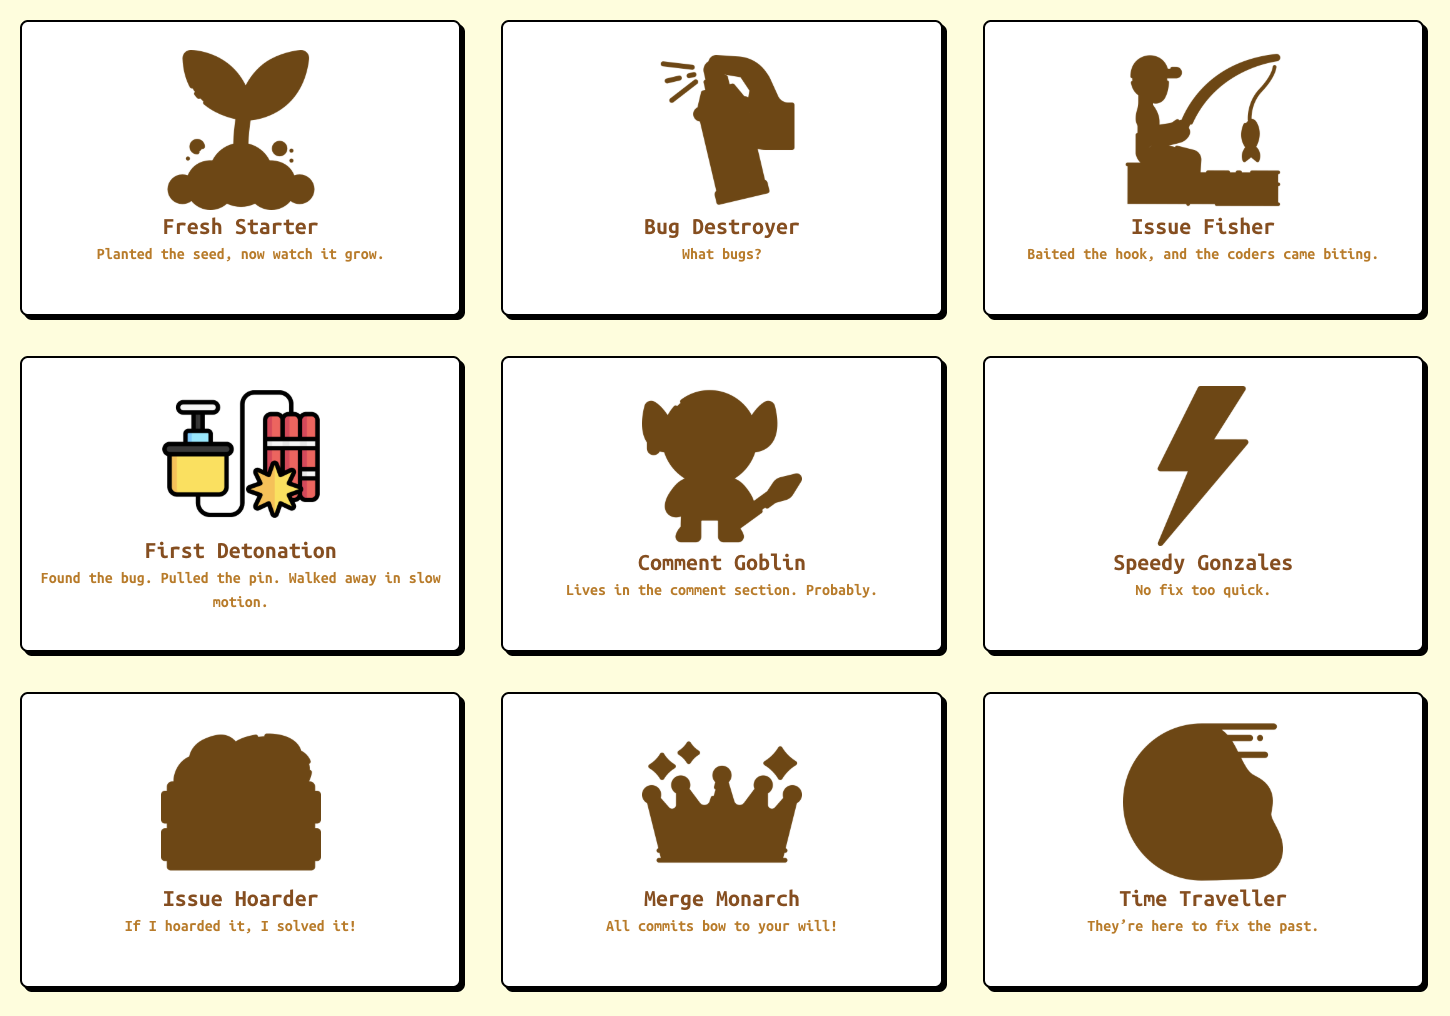
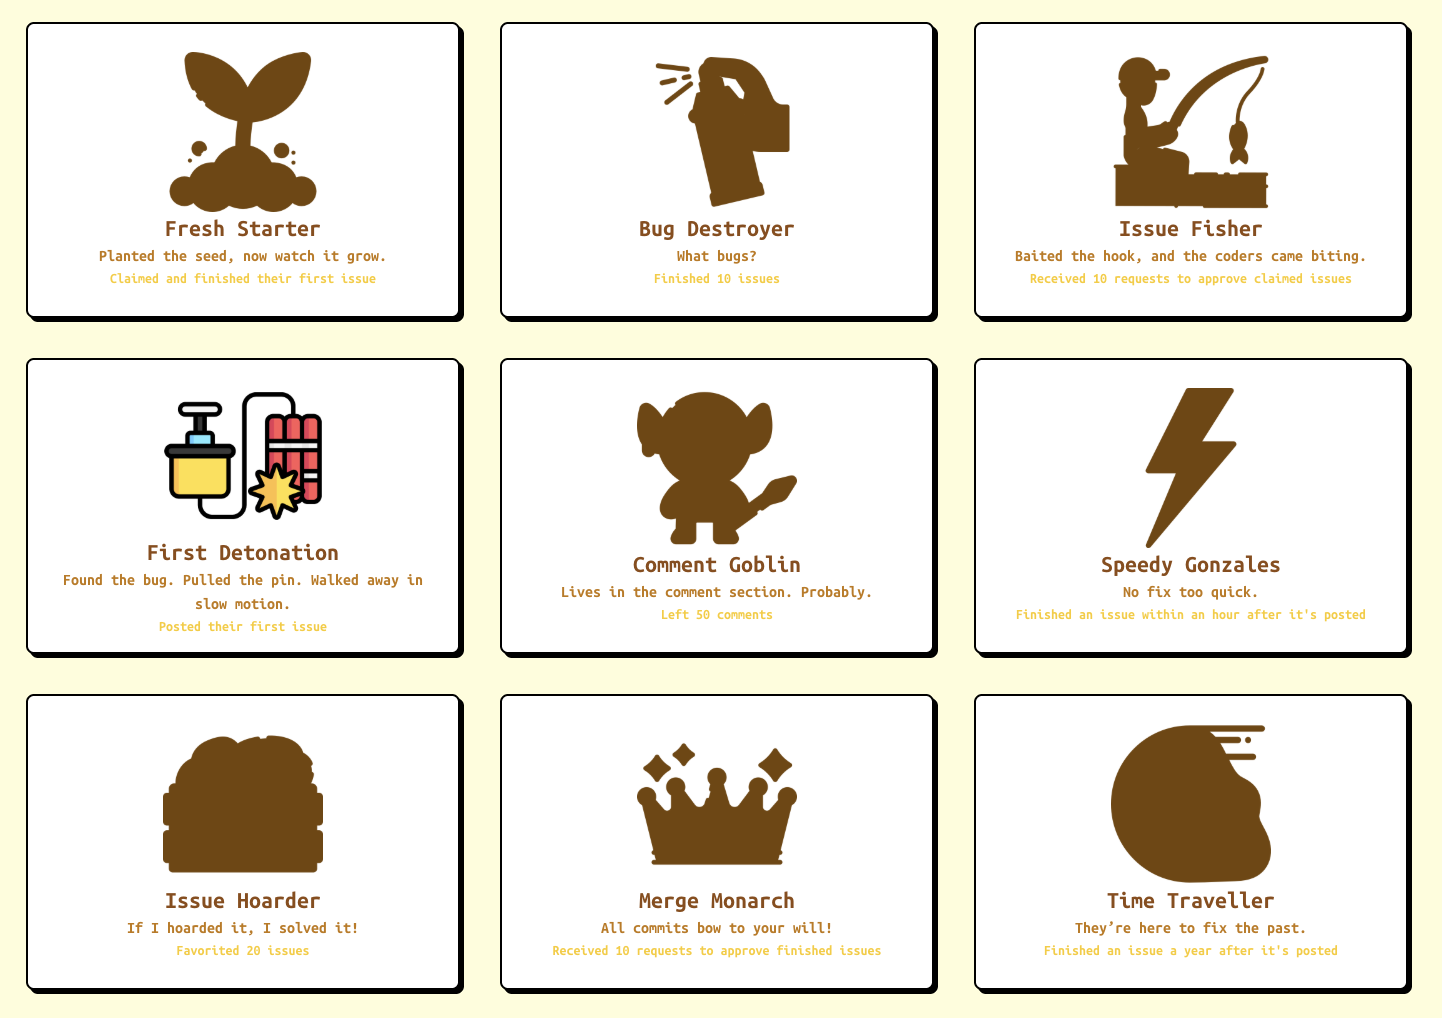
small changes on ui

diff --git a/src/components/email-signup.tsx b/src/components/email-signup.tsx
@@ -19,7 +19,7 @@ export default function EmailSignUp({goal}: EmailSignUpProps) {
           <input type="email" id="email" placeholder="Enter your email" 
             className="shadow-[4px_4px_0px_0px_black] bg-white border-2 border-black transition-transform duration-150 hover:scale-105 text-gray-900 md:w-64 mb-2 md:mb-0 md:me-4 text-lg rounded-lg block w-full p-2.5" required />
           <button onClick={handleSignUp} 
-            className="shadow-[4px_4px_0px_0px_black] border-2 border-black transition-transform duration-150 hover:scale-105 text-white bg-blue-700 hover:bg-blue-800 font-bold rounded-lg text-lg w-full sm:w-auto px-5 py-2.5 text-center"> Sign Up - It's Free!</button>
+            className="cursor-pointer shadow-[4px_4px_0px_0px_black] border-2 border-black transition-transform duration-150 hover:scale-105 text-white bg-blue-700 hover:bg-blue-800 font-bold rounded-lg text-lg w-full sm:w-auto px-5 py-2.5 text-center"> Sign Up - It's Free!</button>
         </div>
       </form>
     </>

diff --git a/src/components/achievements/badge.tsx b/src/components/achievements/badge.tsx
@@ -16,7 +16,7 @@ export default function Badge({src, alt, title, description, explanation}: Badge
       <img className='size-40' src={src} alt={alt} />
       <h2 className="text-2xl font-bold text-yellow-700">{title}</h2>
       <p className="font-bold text-center text-yellow-500">{description}</p>
-      <h4 className="text-sm font-bold text-white">{explanation}</h4>
+      <h4 className="text-sm font-bold text-yellow-300">{explanation}</h4>
     </div>
     </>
   )

diff --git a/src/app/membership/page.tsx b/src/app/membership/page.tsx
@@ -10,7 +10,7 @@ export default function MembershipPage() {
   const navbarHeight = height ?? 64;
   return (
     <>
-    <h2 className="text-7xl font-bold text-center my-10">Pick a Plan</h2>
+    <h2 className="text-7xl font-bold text-center mt-10">Pick a Plan</h2>
     <div className='flex flex-row w-full justify-around items-center' style={{ height: `calc(100vh - ${navbarHeight}px)` }}>
       <PricingFreeCard />
       <PricingVipCard />

diff --git a/src/components/chats/wrapper-ai.tsx b/src/components/chats/wrapper-ai.tsx
@@ -89,7 +89,7 @@ export default function ChatBoxAiWrapper() {
   return (
     <>
     <button onClick={() => openAiChat()}>
-      <img className="fixed left-3 bottom-3 size-20 z-9" src="/chatbot.png" />
+      <img className="transition-transform duration-150 hover:scale-125 fixed left-3 bottom-3 size-20 z-9" src="/chatbot.png" />
     </button>
     { isAiChatOpen &&
       <ChatBoxAI
